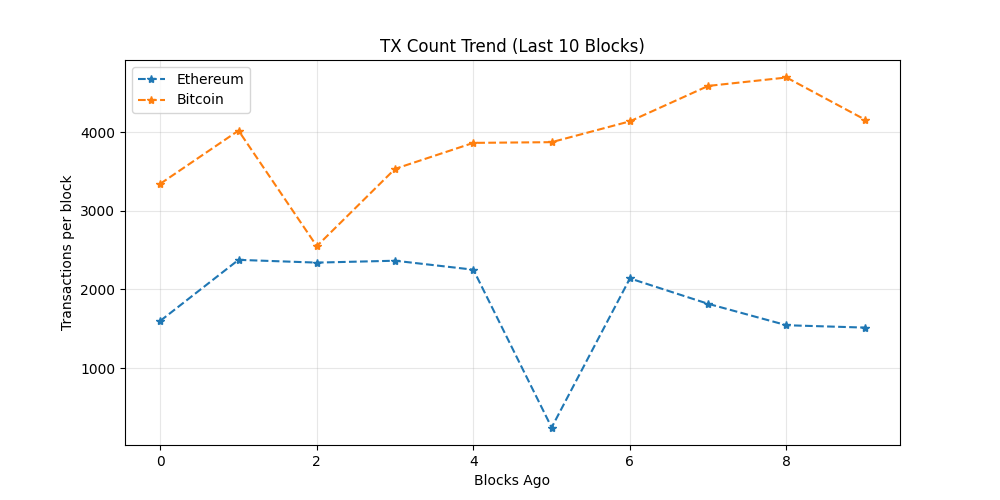
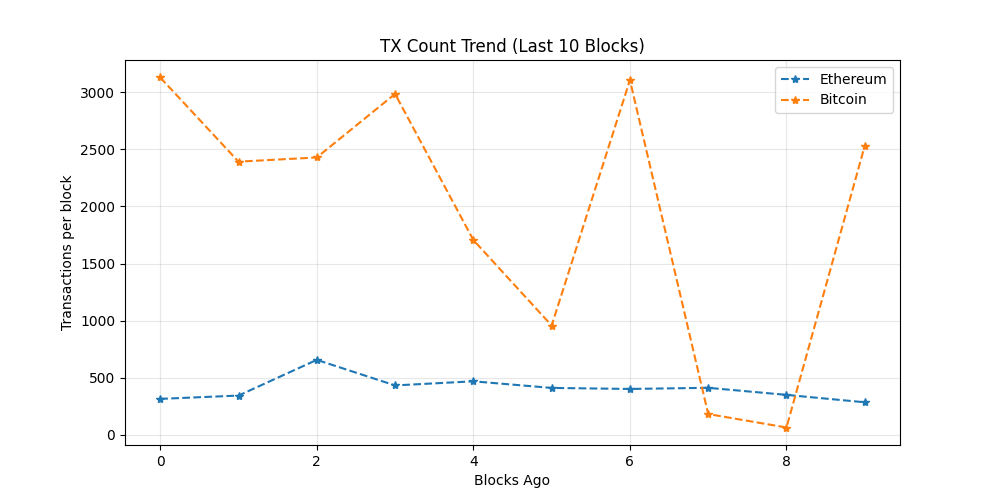
chore: update on-chain dashboard

diff --git a/README.md b/README.md
@@ -19,7 +19,7 @@ The README itself acts as the dashboard and is regenerated automatically on a 6 
 demonstrating a production-style, infrastructure-focused observability workflow rather
 than a traditional UI-driven approach.
 
-_Last updated: 2026-04-30 19:49 UTC_
+_Last updated: 2026-05-01 04:15 UTC_
 
 ## API Usage (GetBlock.io)
 - Calls used: **24**
@@ -27,8 +27,8 @@ _Last updated: 2026-04-30 19:49 UTC_
 ## Network Metrics
 | Chain | Block Height | TX Count | TPS (10 blk avg) | Block Util | Avg Fee |
 |------|-------------|----------|------------------|------------|---------|
-| Ethereum | 24995112 | 1514 | 126.17 | 73.54% | 2.7 Gwei |
-| Bitcoin | 947317 | 4159 | 2.96 | 99.79% | N/A |
+| Ethereum | 24997636 | 283 | 23.58 | 45.81% | 0.2 Gwei |
+| Bitcoin | 947373 | 2533 | 1.38 | 99.8% | N/A |
 
 ## Visuals
 ### Transactions Trend
@@ -43,11 +43,11 @@ _Last updated: 2026-04-30 19:49 UTC_
 ## Whale Alerts (latest block)
 - Transaction hashes are truncated for readability.
 - Full hashes are available in `dashboards/metrics.json`
-- Bitcoin | 196.11 BTC | `37091bcfddec…`
-- Bitcoin | 100.12 BTC | `c33942033374…`
-- Bitcoin | 109.0 BTC | `5ac4355c001c…`
-- Bitcoin | 329.24 BTC | `f3d34bba1c27…`
-- Bitcoin | 328.98 BTC | `7745f57004ea…`
+- Bitcoin | 118.57 BTC | `efa8c2829f8b…`
+- Bitcoin | 326.54 BTC | `61db6eb03cc3…`
+- Bitcoin | 123.11 BTC | `695988be20fe…`
+- Bitcoin | 150.01 BTC | `fd442093f392…`
+- Bitcoin | 825.55 BTC | `8617cdb8c30e…`
 
 ## Run locally
 
